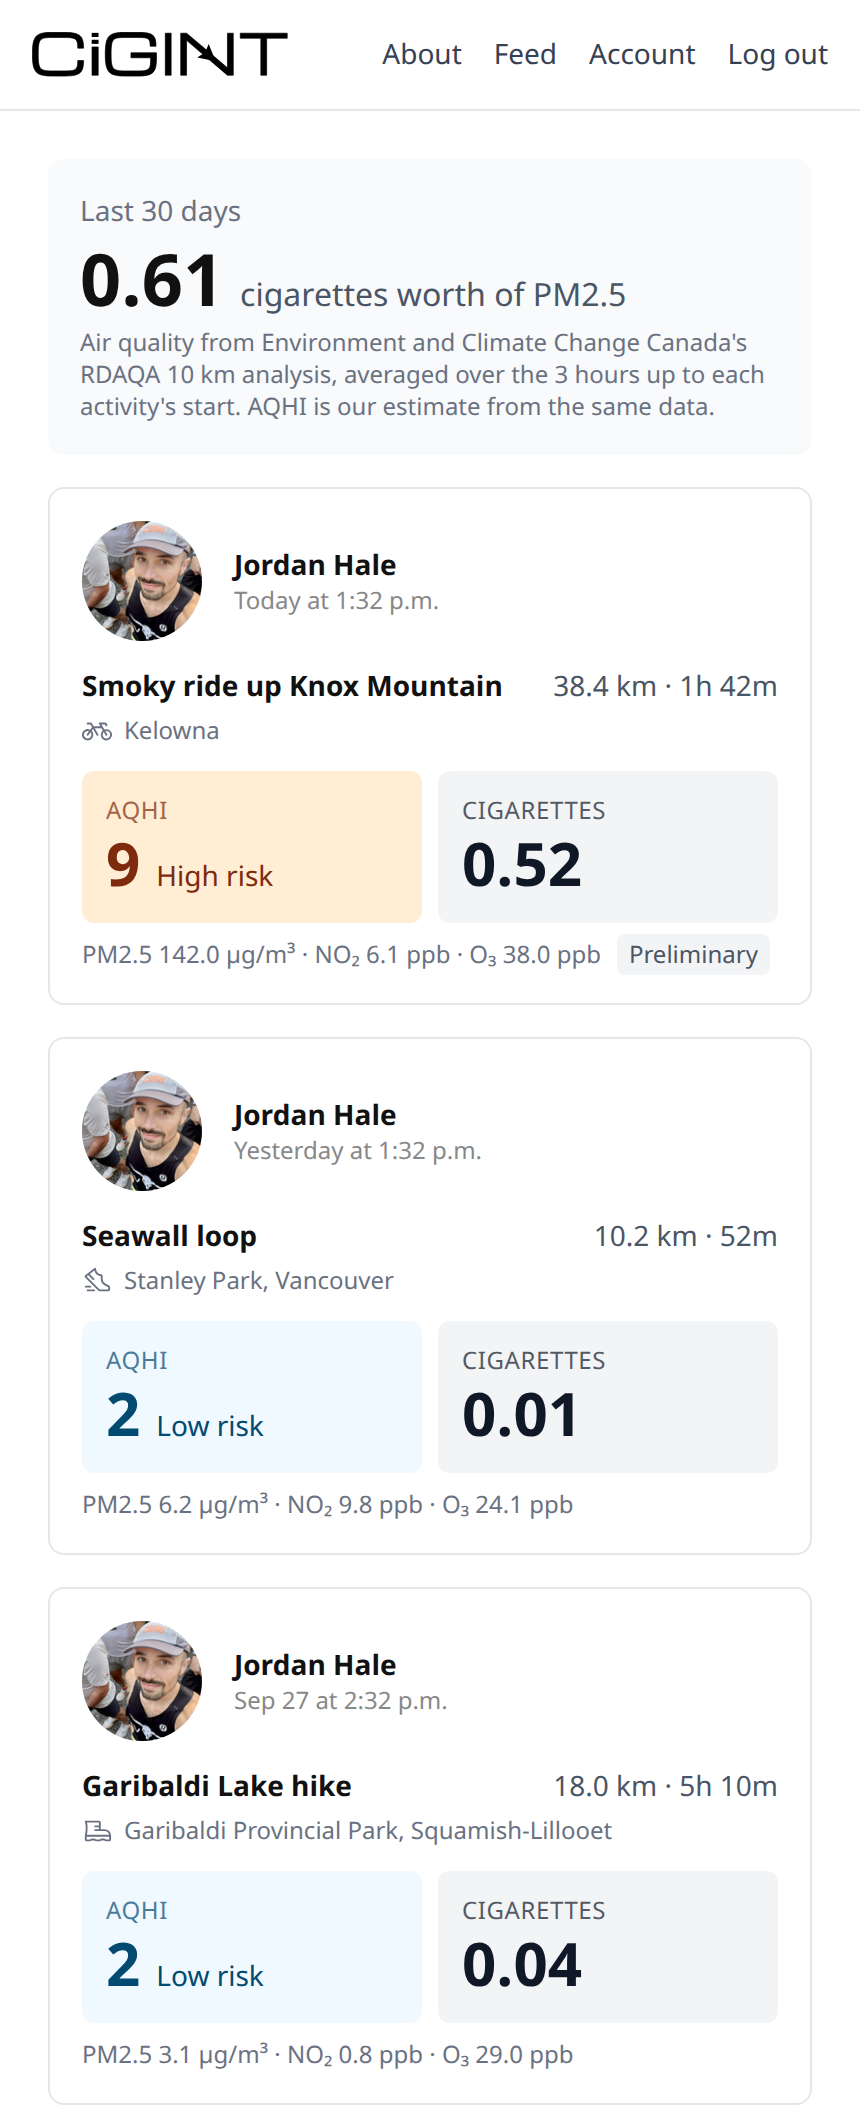
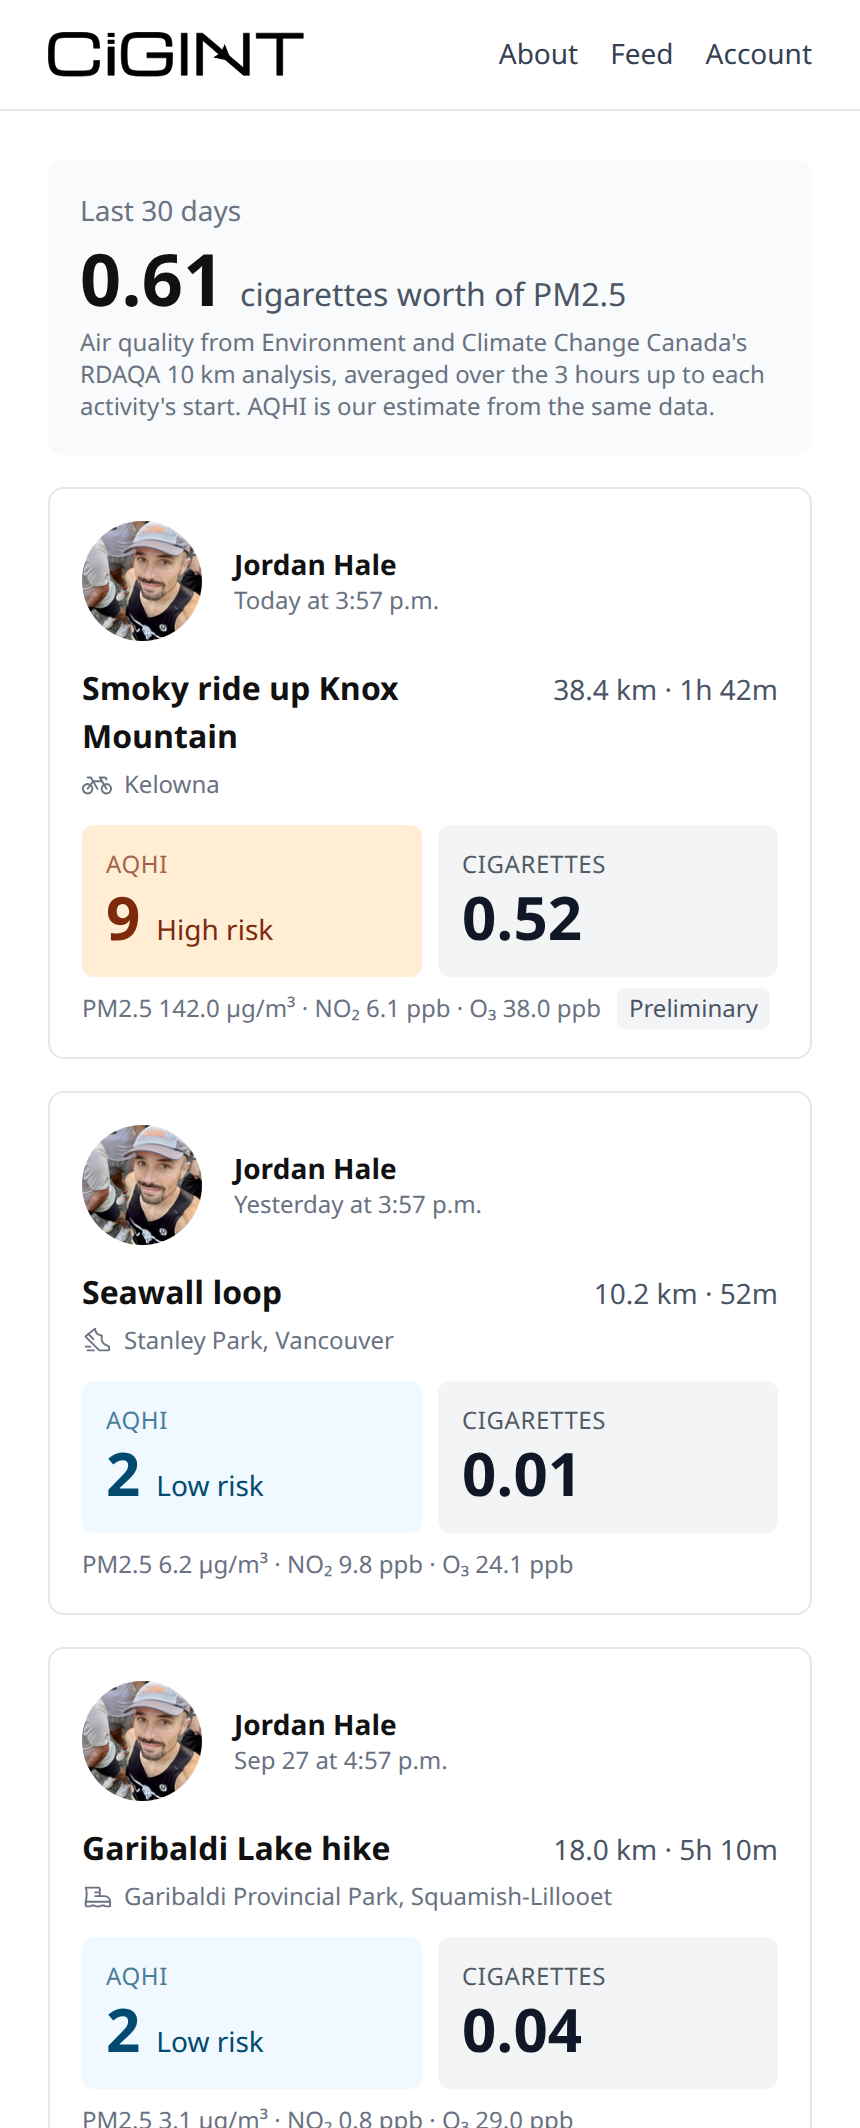
move log in and log out to the Account page, three nav links at most

diff --git a/src/app/account/page.tsx b/src/app/account/page.tsx
@@ -1,7 +1,7 @@
 export const dynamic = "force-dynamic";
 
 import type { Metadata } from "next";
-import { redirect } from "next/navigation";
+import ConnectButton from "@/src/components/ConnectButton";
 import DeleteAccountForm from "@/src/components/DeleteAccountForm";
 import { REVOKE_STRAVA_ON_DELETE } from "@/src/lib/constants";
 import { getSessionUserId } from "@/src/lib/session";
@@ -9,9 +9,26 @@ import { getAthleteProfile } from "@/src/prisma/users";
 
 export const metadata: Metadata = { title: "Account" };
 
+// Public: signed out, it's where you log in; signed in, where you log out or
+// delete your data.
 export default async function AccountPage() {
   const userId = await getSessionUserId();
-  if (!userId) redirect("/api/strava/authorize");
+
+  if (!userId) {
+    return (
+      <main className="mx-auto flex max-w-xl flex-col gap-6 p-6">
+        <h1 className="text-2xl font-bold">Account</h1>
+        <p className="text-gray-600">
+          Connect your Strava account to see the air quality for your
+          activities. CIGINT only reads your activities, and you can disconnect
+          at any time.
+        </p>
+        <div>
+          <ConnectButton />
+        </div>
+      </main>
+    );
+  }
 
   const athlete = await getAthleteProfile(userId);
   const name =
@@ -21,7 +38,17 @@ export default async function AccountPage() {
   return (
     <main className="mx-auto flex max-w-xl flex-col gap-6 p-6">
       <h1 className="text-2xl font-bold">Account</h1>
-      <p className="text-gray-600">Connected to Strava as {name}.</p>
+      <div className="flex flex-wrap items-center justify-between gap-3">
+        <p className="text-gray-600">Connected to Strava as {name}.</p>
+        <form action="/api/auth/logout" method="post">
+          <button
+            type="submit"
+            className="rounded border border-gray-300 px-4 py-2 text-sm font-medium text-gray-700 hover:bg-gray-50"
+          >
+            Log out
+          </button>
+        </form>
+      </div>
 
       <section className="flex flex-col gap-3 rounded-lg border border-red-200 p-4">
         <h2 className="font-semibold">Disconnect and delete my data</h2>

diff --git a/src/components/SiteHeader.tsx b/src/components/SiteHeader.tsx
@@ -44,30 +44,16 @@ export default async function SiteHeader() {
             About
           </NavLink>
 
-          {signedIn ? (
-            <>
-              <NavLink href="/activities" className={NAV_LINK}>
-                Feed
-              </NavLink>
-              <NavLink href="/account" className={NAV_LINK}>
-                Account
-              </NavLink>
-              <form action="/api/auth/logout" method="post">
-                <button type="submit" className="text-gray-700 hover:underline">
-                  Log out
-                </button>
-              </form>
-            </>
-          ) : (
-            // A plain <a>, not Link: this is a route handler that redirects to
-            // strava.com, not a page to navigate to client-side.
-            <a
-              href="/api/strava/authorize"
-              className="text-gray-700 hover:underline"
-            >
-              Log in
-            </a>
+          {signedIn && (
+            <NavLink href="/activities" className={NAV_LINK}>
+              Feed
+            </NavLink>
           )}
+          {/* Logging in and out both happen on the Account page, which keeps
+              the nav to three links at most. */}
+          <NavLink href="/account" className={NAV_LINK}>
+            Account
+          </NavLink>
         </nav>
       </div>
     </header>

diff --git a/src/proxy.ts b/src/proxy.ts
@@ -6,12 +6,14 @@ import {
 } from "@/src/lib/constants";
 
 // Reachable without a session: the landing, about and demo pages, the
-// sitemap and robots.txt for crawlers, the OAuth routes, the privacy policy,
-// and logout (so a stale tab logging out goes home rather than to Strava).
-// Everything else needs a session cookie.
+// account page (where you log in when signed out), the sitemap and
+// robots.txt for crawlers, the OAuth routes, the privacy policy, and logout
+// (so a stale tab logging out goes home rather than to Strava). Everything
+// else needs a session cookie.
 const PUBLIC_EXACT_PATHS = [
   "/",
   "/about",
+  "/account",
   "/demo",
   "/sitemap.xml",
   "/robots.txt",

diff --git a/src/proxy.test.ts b/src/proxy.test.ts
@@ -24,6 +24,7 @@ describe("proxy", () => {
   it.each([
     "/",
     "/about",
+    "/account",
     "/demo",
     "/sitemap.xml",
     "/robots.txt",
@@ -46,7 +47,7 @@ describe("proxy", () => {
     expect(passedThrough(response)).toBe(true);
   });
 
-  it.each(["/activities", "/account", "/api/account/delete"])(
+  it.each(["/activities", "/api/account/delete"])(
     "redirects %s to Strava authorization without a session",
     (path) => {
       const response = proxy(request(path));
